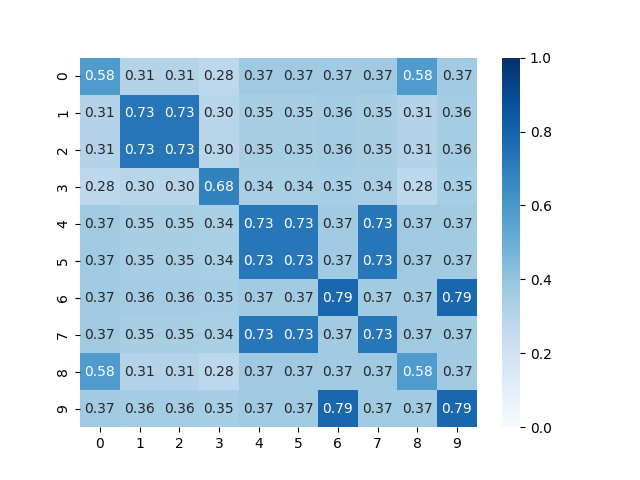
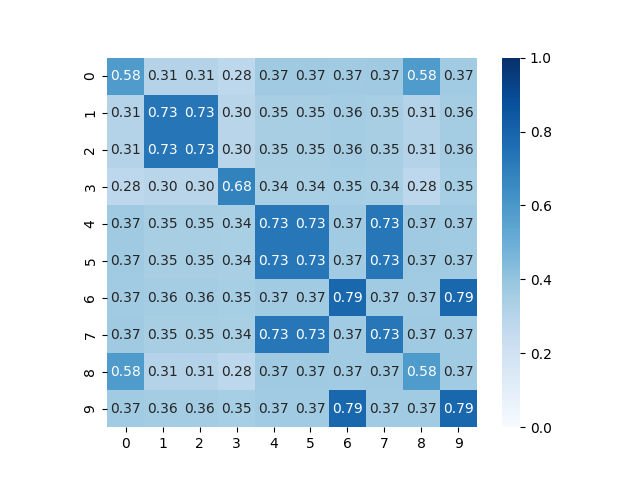
Square Plot

diff --git a/embed_stats.py b/embed_stats.py
@@ -36,7 +36,8 @@ def cos_sim_conf_mat(embeds, labels):
 
 def plot_conf_mat(conf_mat):
     fig, ax = plt.subplots()
-    ax = sns.heatmap(conf_mat, vmin=0, vmax=1, cmap="Blues", annot=True, fmt=".2f", ax=ax)
+    ax = sns.heatmap(conf_mat, vmin=0, vmax=1, cmap="Blues", annot=True, fmt=".2f", square=True,
+                     ax=ax)
     return fig
 
 
